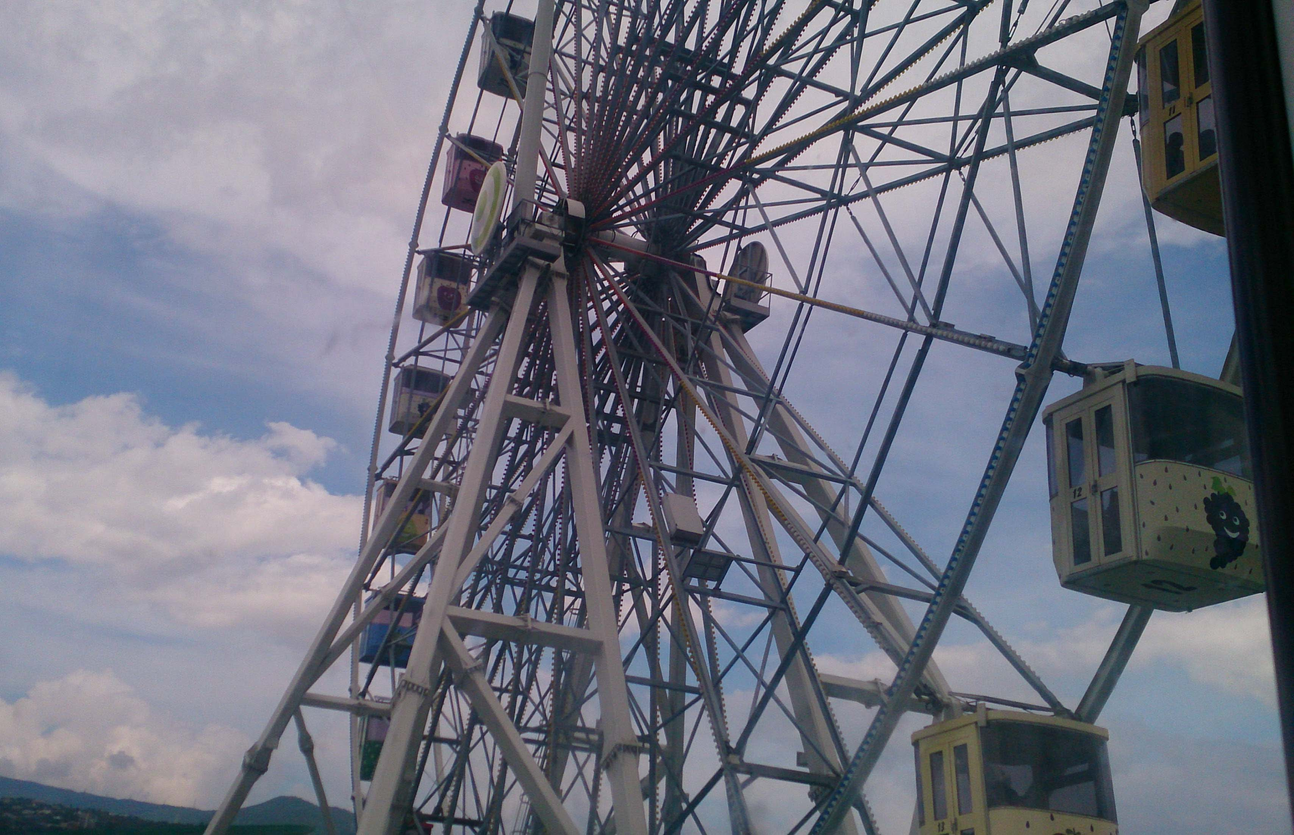
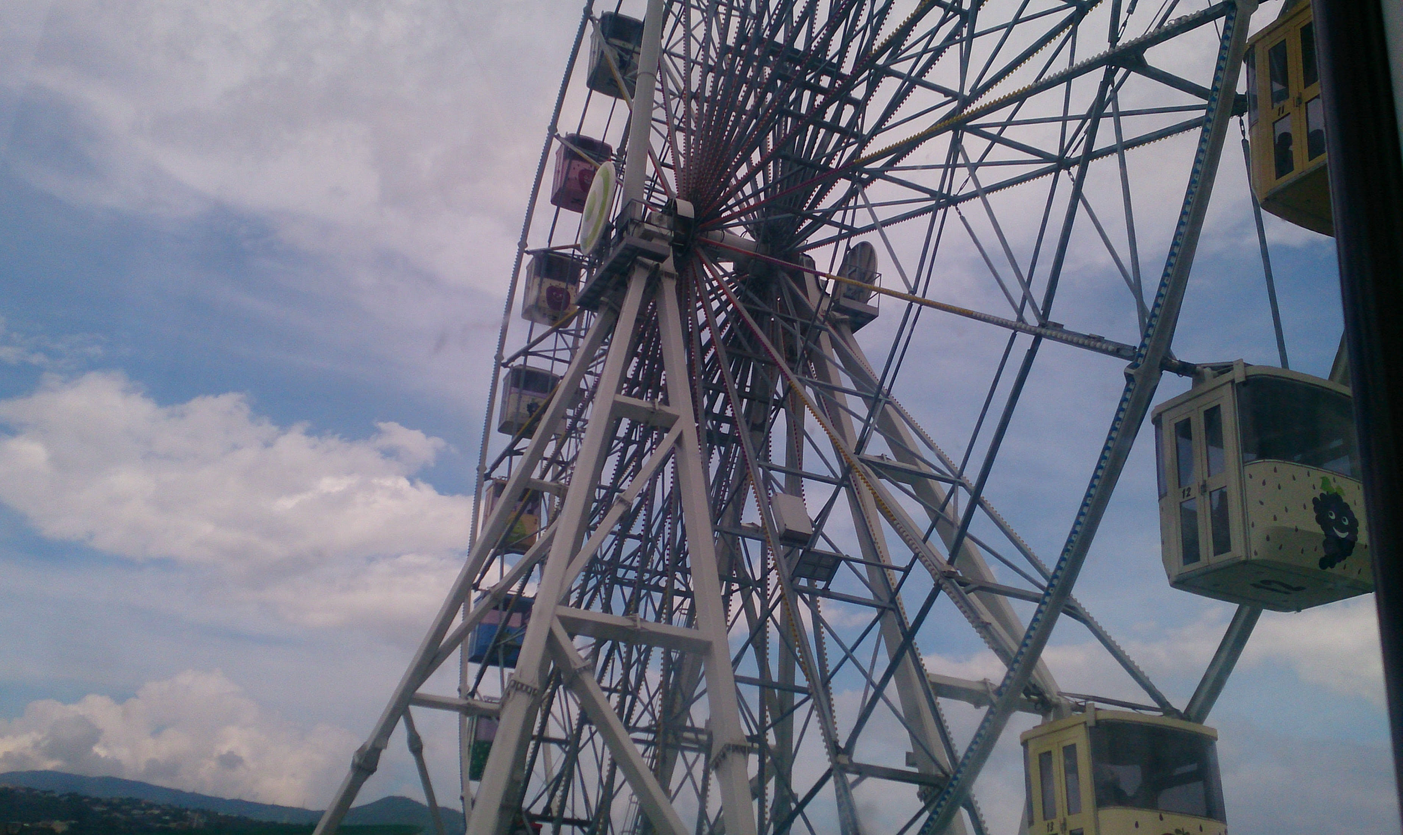
Add files via upload

diff --git a/scroll.html b/scroll.html
@@ -78,9 +78,9 @@ body {font-family: "PingFang TC","微軟正黑體",sans-serif;color: #d8d8d8;}
 			</div>
 		</div>
 		<div class="swiper-slide">
-			<div class="box"><div class="ribbon">2016.04.03</div></div>
-			<div class="gray"><img src="./deer.jpg" class="">
-			<p class="word">大溪老街 我們買了很多卡哩卡哩 :P 晚上去中壢夜市，我記得你做的香蕉巧克力派，好好吃~</p>
+			<div class="box"><div class="ribbon">2016.08.06</div></div>
+			<div class="gray"><img src="./wheel.jpg" class="">
+			<p class="word">兒童新樂園，碰碰車好玩~晚上士林夜市 吃到很辣的惡魔雞排XD 到大稻埕看七夕煙火，人群非常多但煙火很美~</p>
 			</div>
 		</div>
 		<div class="swiper-slide">
